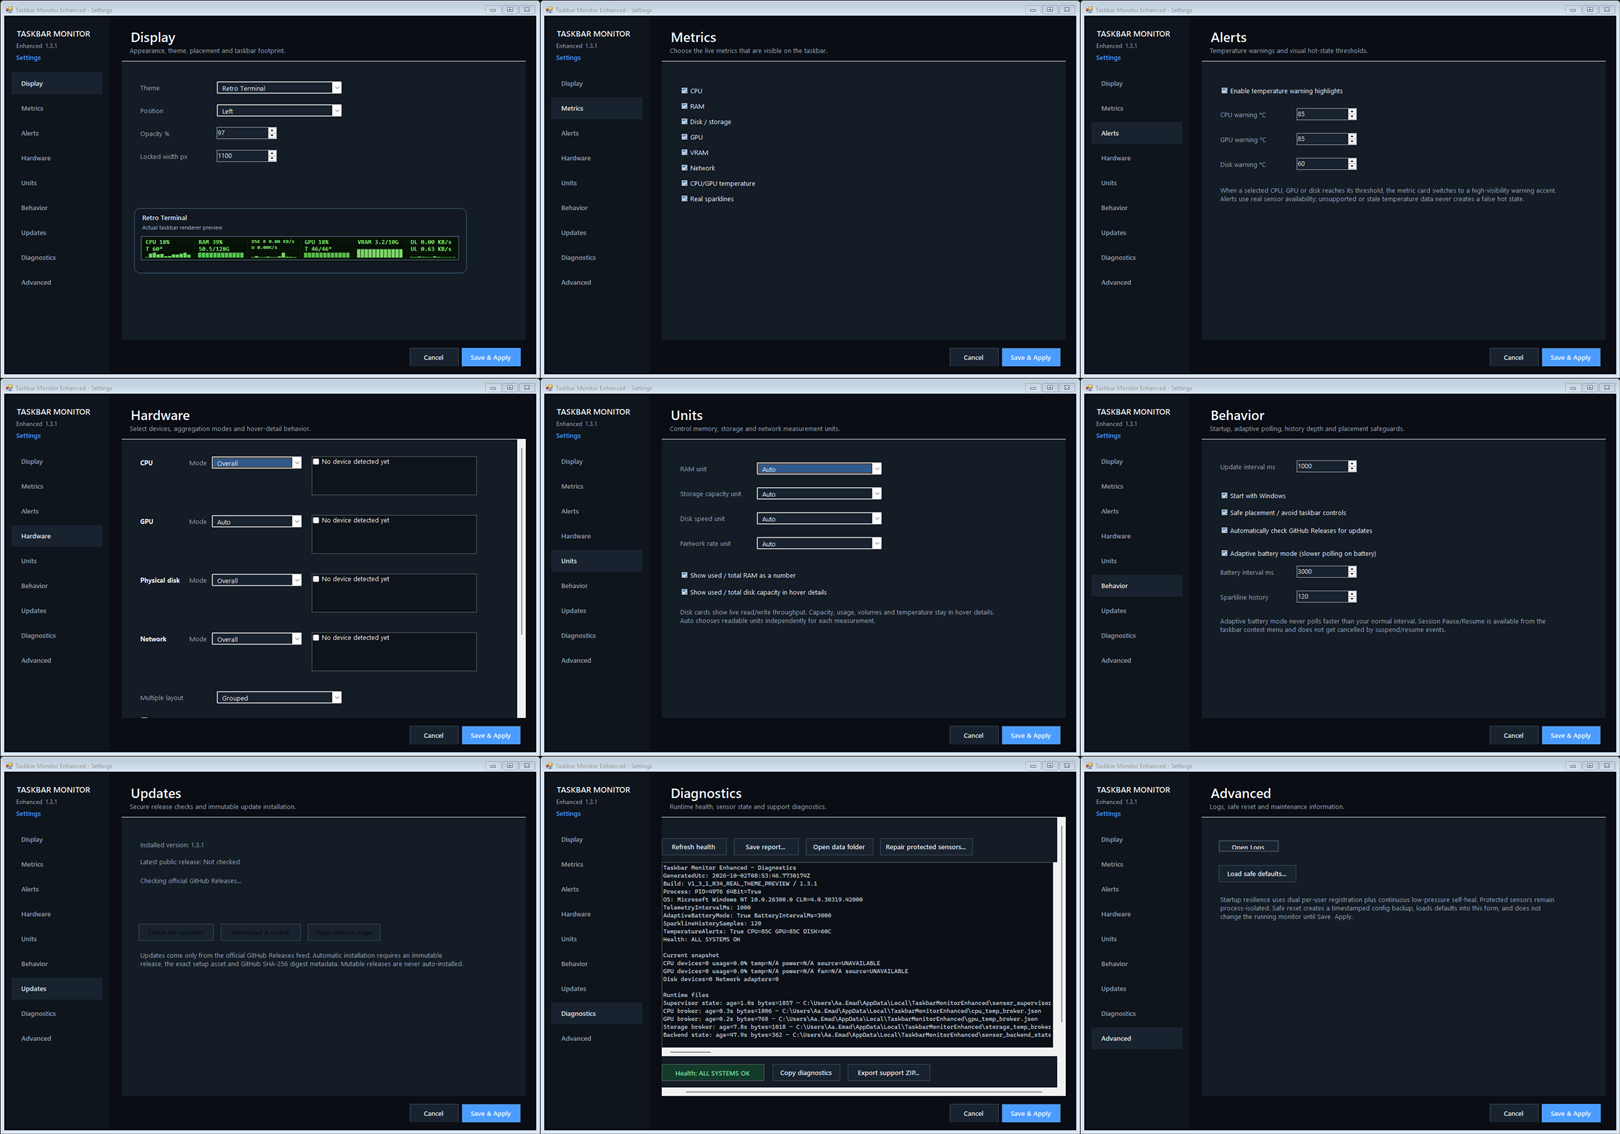
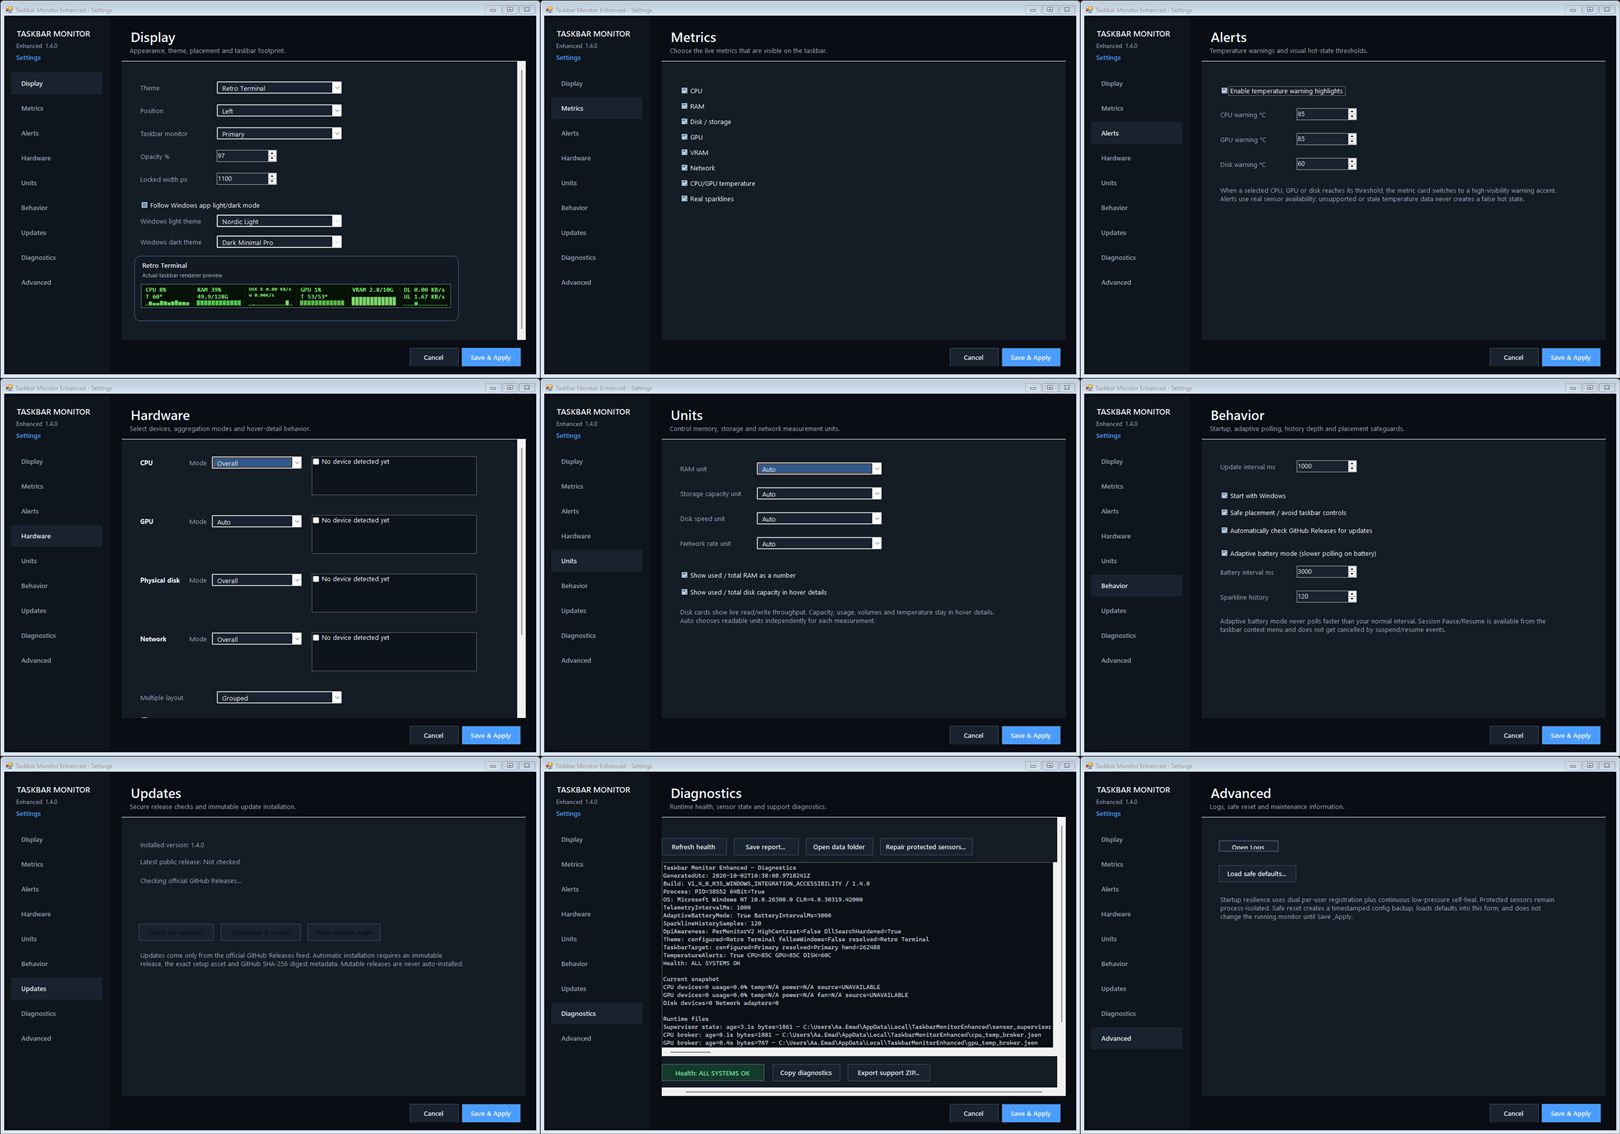
docs: refresh v1.4.0 settings evidence

Changed region(s): [[0.0617, 0.0617, 0.3395, 0.3086], [0.4012, 0.7716, 0.6481, 0.9259], [0.1235, 0.0926, 0.216, 0.1235]]

diff --git a/docs/screenshots/README.md b/docs/screenshots/README.md
@@ -1,6 +1,6 @@
 # Screenshot and renderer evidence
 
-These images are generated by Taskbar Monitor Enhanced itself. The Settings gallery has been refreshed from the installed v1.3.1 real-theme-preview build using a real shown-and-painted Settings form; its Display page uses the actual taskbar renderer with live sampled telemetry and no synthetic metric data. Theme and compact renderer families are unchanged from v1.3.0.
+These images are generated by Taskbar Monitor Enhanced itself. The Settings gallery has been refreshed from the installed v1.4.0 R35 build using a real shown-and-painted Settings form. The Display page uses the actual taskbar renderer with live sampled telemetry and no synthetic metric data, and the proof manifest records PerMonitorV2 DPI, zero accessibility-name gaps and zero High Contrast style gaps. Theme and compact renderer families remain regression-qualified.
 
 ## 9-page Settings
 
@@ -32,4 +32,4 @@ The compact proof covers all 28 themes at 592 px and 500 px with zero overflow.
 
 ## Evidence status
 
-These are renderer/UI evidence, not synthetic marketing mockups. The v1.3.1 Display-page preview is explicitly `ACTUAL_TASKBAR_RENDERER` at 48 px height with live sampled metrics.
+These are renderer/UI evidence, not synthetic marketing mockups. The v1.4.0 Settings proof records `ACTUAL_TASKBAR_RENDERER`, 48 px preview height, 12 live samples, `DpiAwareness=PerMonitorV2`, `AccessibilityNameGaps=0`, and `HighContrastStyleGaps=0`.
